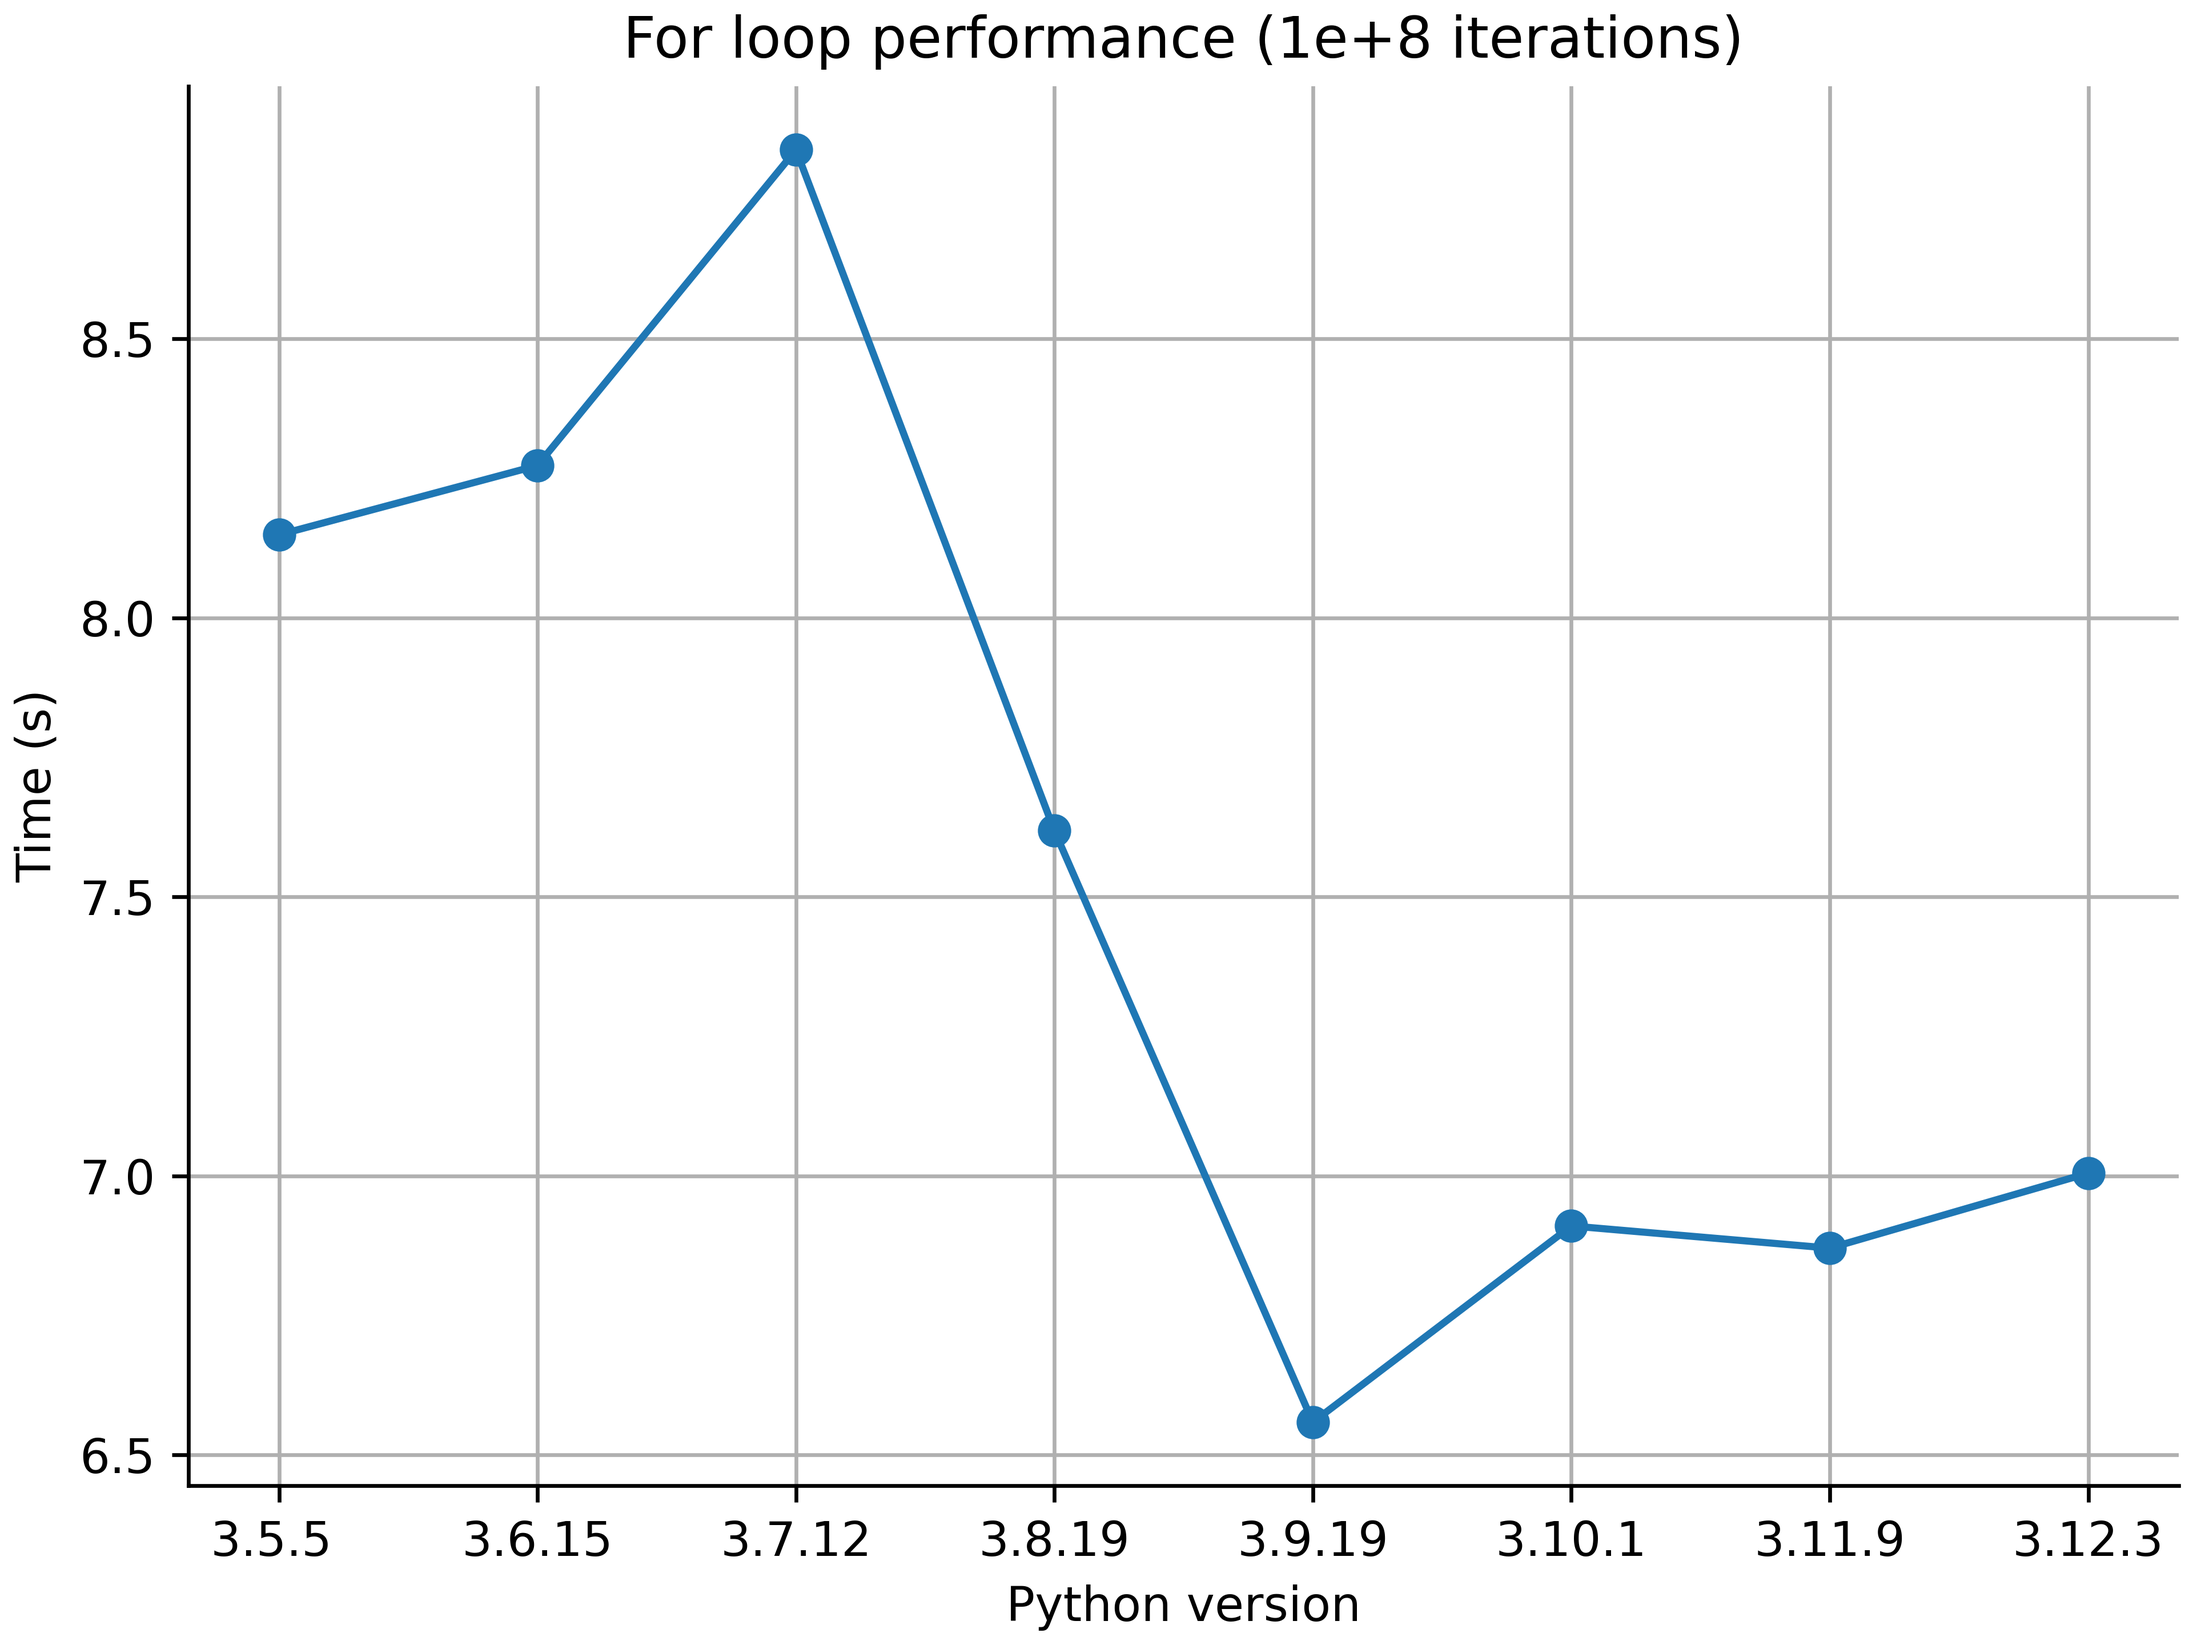
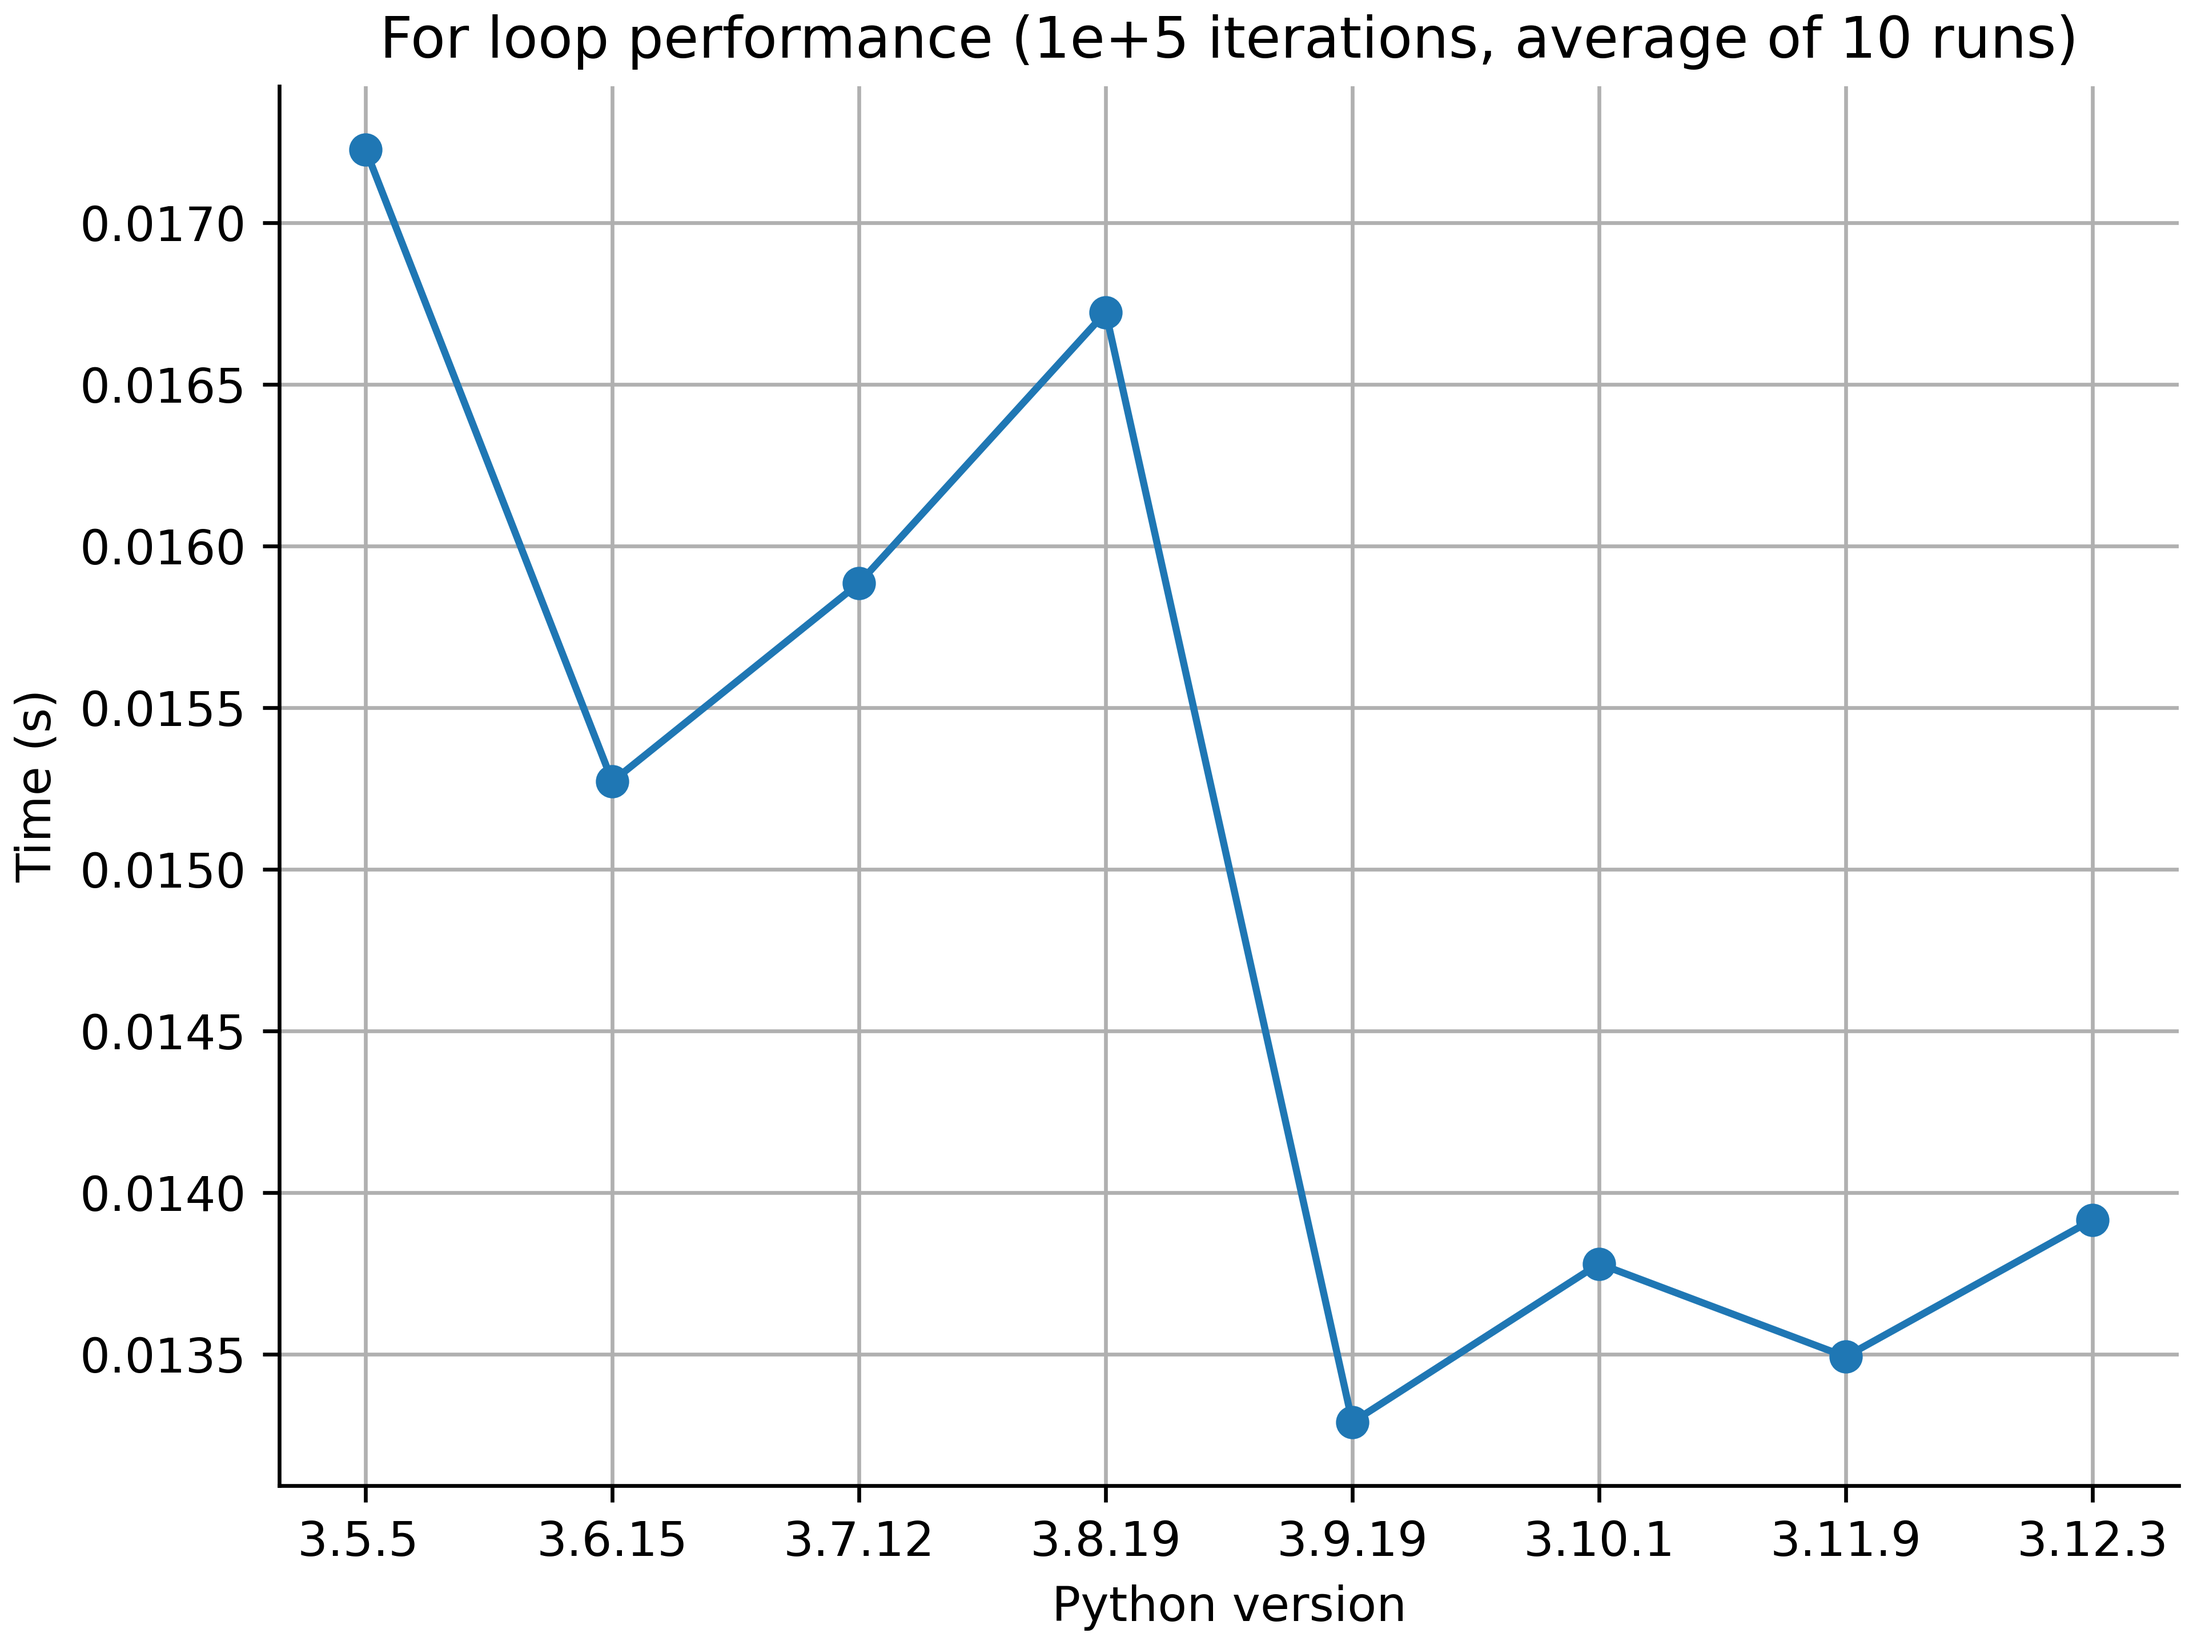
clean up

diff --git a/for_loop.py b/for_loop.py
@@ -1,16 +1,18 @@
-import timeit
 import sys
+import timeit
 
 version = sys.version
 
+
 def test():
     r = 0
-    for i in range(int(1e8)):
+    for i in range(int(1e5)):
         r += i
 
-repeat = 1
-result = timeit.timeit('test()', globals=globals(), number=repeat)
+
+repeat = 10
+result = timeit.timeit("test()", globals=globals(), number=repeat)
 result /= repeat
 
-with open('for_loop_result.tsv', 'a') as f:
-    f.write(str(version)[:6] + '\n' + str(result) + '\n')
+with open("for_loop_result.txt", "a") as f:
+    f.write(str(version)[:6] + "\n" + str(result) + "\n")
